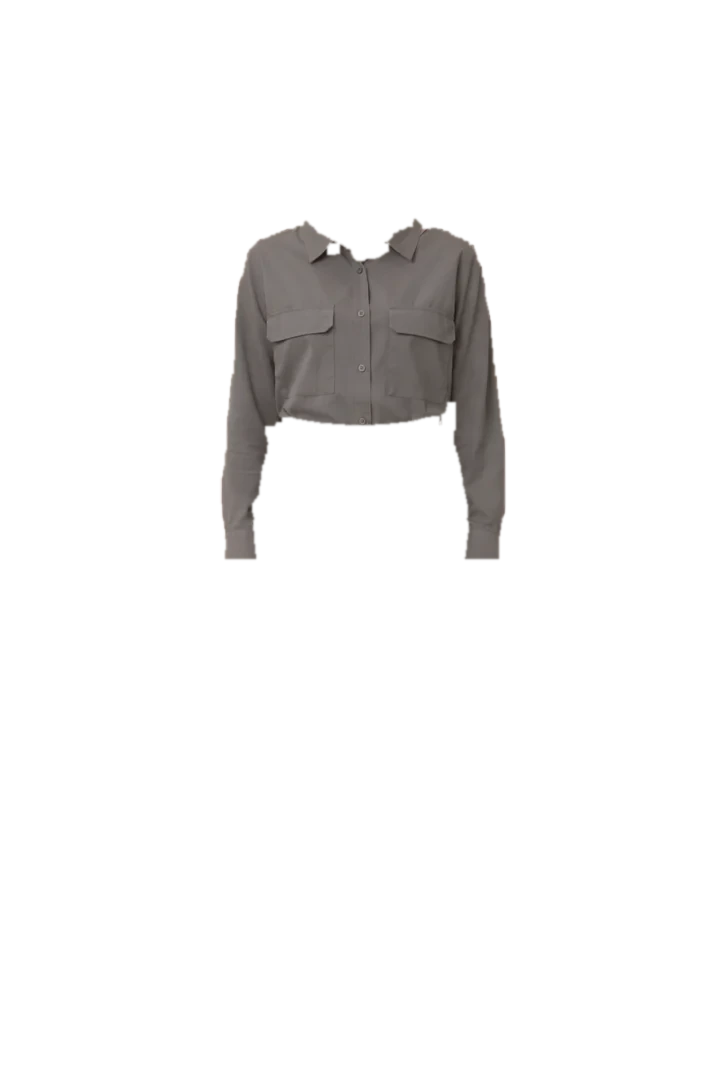
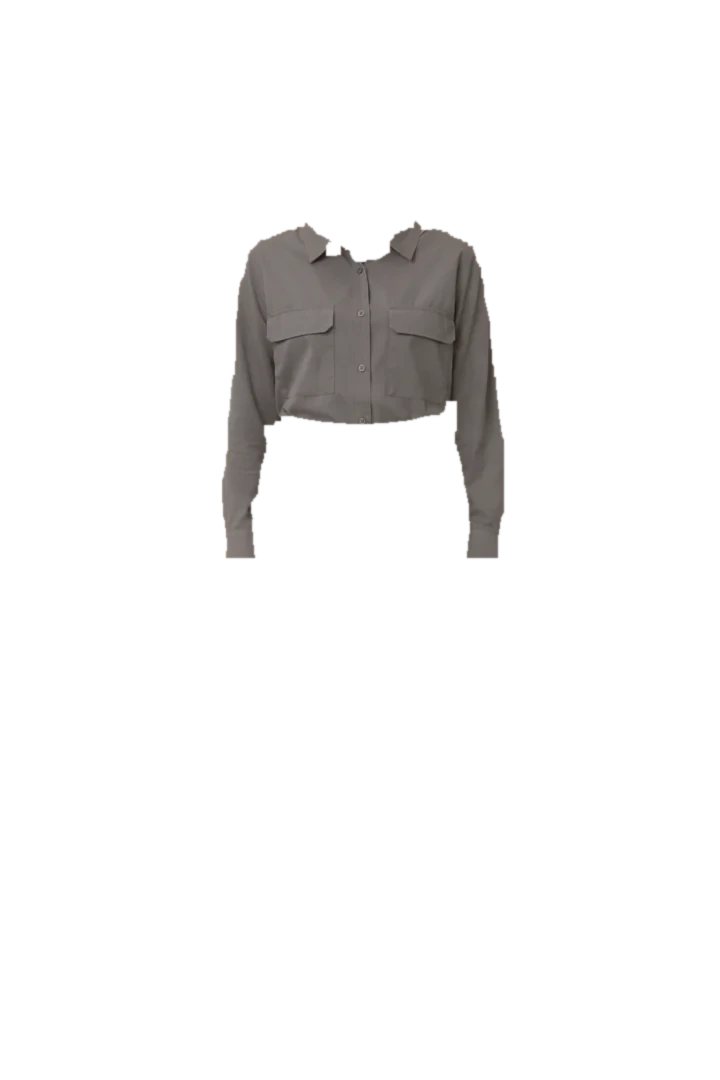
fitting room: hide jeans waist strip with black trousers; cleaner shirt edges
Claude-Session: https://claude.ai/code/session_015qmkQqu4Tq4VQ9VVYkgsmQ

diff --git a/demos/essentials/index.html b/demos/essentials/index.html
@@ -960,8 +960,8 @@ function fitGo(zone, idx){
   fitRefresh();
   FIT.busy = true;
   const jobs = [];
-  if(zone==="top"){ jobs.push(fitSwap("fitImgT", fitTop(FIT.t), "srcT")); jobs.push(fitSwap("fitImgD", fitExt(FIT.t), "srcD")) }
-  else { jobs.push(fitSwap("fitImgB", fitBot(FIT.b), "srcB")); const d = $("#fitImgD"); if(d){ const an = d.animate([{opacity:FIT.b?0:1},{opacity:FIT.b?1:0}],{duration:360,fill:"forwards",easing:"ease-in-out"}); an.onfinish = () => { d.style.opacity = FIT.b?1:0; an.cancel() } } }
+  if(zone==="top"){ jobs.push(fitSwap("fitImgT", fitTop(FIT.t), "srcT")); if(FIT.b) jobs.push(fitSwap("fitImgD", fitExt(FIT.t), "srcD")); else { const d = $("#fitImgD"); if(d){ d.src = fitExt(FIT.t); FIT.srcD = fitExt(FIT.t) } } }
+  else { jobs.push(fitSwap("fitImgB", fitBot(FIT.b), "srcB")); const d = $("#fitImgD"); if(d){ if(d.src.indexOf(fitExt(FIT.t))<0){ d.src = fitExt(FIT.t); FIT.srcD = fitExt(FIT.t) } const an = d.animate([{opacity:FIT.b?0:1},{opacity:FIT.b?1:0}],{duration:360,fill:"forwards",easing:"ease-in-out"}); an.onfinish = () => { d.style.opacity = FIT.b?1:0; an.cancel() } } }
   Promise.all(jobs).then(() => { FIT.busy = false });
 }
 ["base","top0","top1","bot0","bot1","ext0","ext1","hands","hijab"].forEach(k => { const i = new Image(); i.src = `fit/${k}.${k==="hijab"?"png":"webp"}` })
